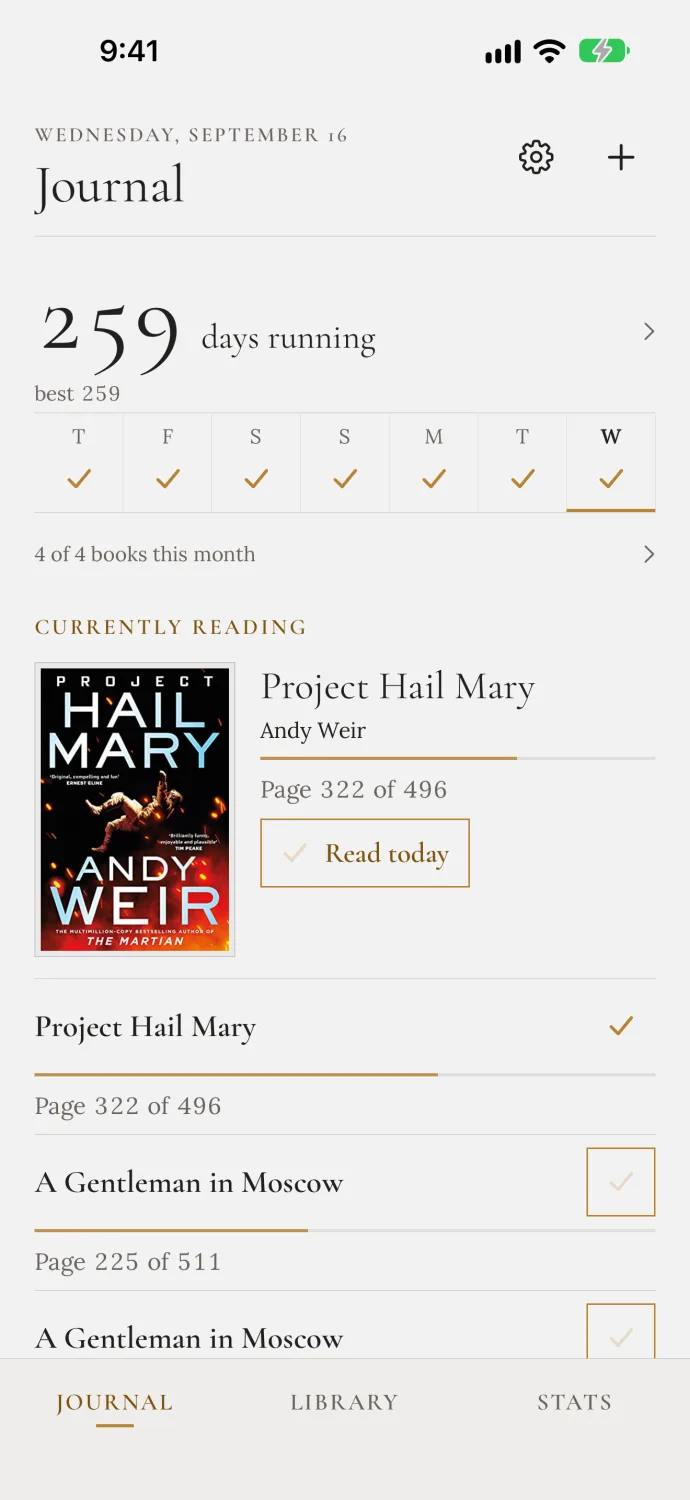
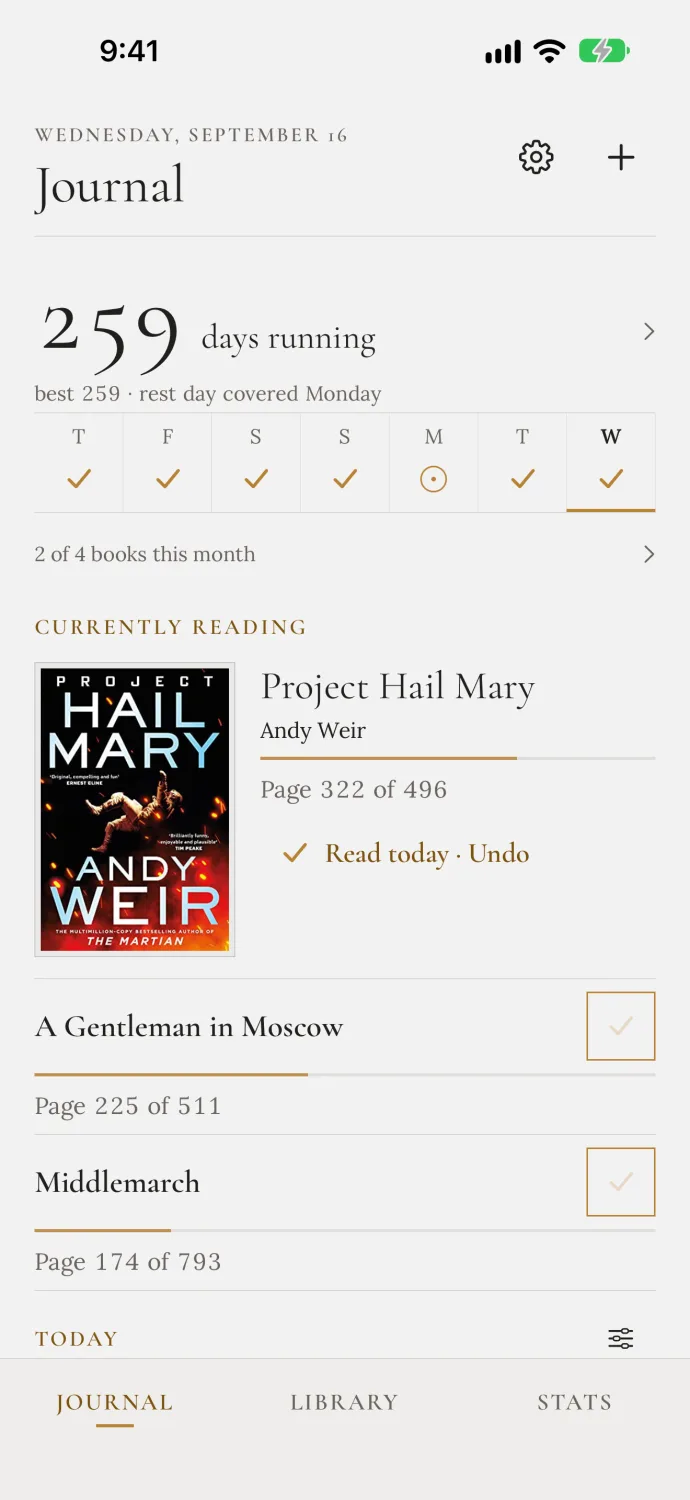
Recapture the screenshots from a clean sample library
The published captures came from a doubled library: the screenshot fixture
seeded twice, so the shelf listed each current book twice and the goals
read 64 of 52 books for the year and 4 of 4 for the month. Fixed in
book-tracker and recaptured, so the images now show what the fixture
describes — three books under way, 2 of 4 books this month — which also
sits better beside "a little reading counts" than the doubled figures did.

The status bar reads 9:41 with a charged battery rather than whatever time
the run started. Alt text follows the new screens, including the book
marked as read today rather than an unmarked Read today button.

diff --git a/site/reading-habit/guide/index.html b/site/reading-habit/guide/index.html
@@ -50,7 +50,7 @@
 <section aria-labelledby="reading-title" id="reading"><span class="chapter-number">05 / Read</span><h2 id="reading-title">Record as much as you need</h2><h3>Check in for today</h3><p>In Journal or a current book’s detail page, choose <strong>Read today</strong>. It records a reading session for that book. It doesn’t finish the book or measure how long you read.</p><p>To undo an eligible check-in, choose the recorded check. Progress updates are kept. Multiple entries or books on the same reading day still count as one day in your daily reading total.</p><h3>Track your position</h3><ol><li>Open the book and expand <strong>Reading details</strong>.</li><li>Turn on <strong>Track progress</strong> for this reading.</li><li>Choose the format and display units. Enter the relevant total length in <strong>Progress settings</strong> and choose <strong>Save lengths</strong> when required.</li><li>Choose the position number, enter your current position, and choose <strong>Log</strong>. You can also drag the progress bar and release to record the position. Depending on the available lengths, you can use percent, pages, chapters, or time.</li></ol><p>Time is a position in an audiobook, not a running session timer. When switching between formats, translated positions are approximate. You can leave progress tracking off and keep using Read today.</p><h3>Finish a book</h3><p>When you finish, choose <strong>Finished</strong> from the book’s status control. If tracking progress reaches the end, follow the finish prompt. The finish belongs to that reading and its finish date. A check-in or an intermediate progress update doesn’t create an extra finish.</p><p>If you stop without finishing, choose <strong>Did Not Finish</strong> from the status options. It doesn’t earn a completed-reading contribution toward your goals.</p></section>
 <section aria-labelledby="history-title" id="history"><span class="chapter-number">06 / Look back and correct</span><h2 id="history-title">Every reading has its own record</h2><p>Open a book and find <strong>Reading activity</strong>. Choose an individual reading to see its days and format activity. A dated event in Journal also opens that book’s reading history.</p><h3>Correct an entry</h3><ol><li>Open the reading you want to correct.</li><li>Use <strong>Correct a reading day</strong> to select the relevant day and format.</li><li>Choose <strong>Mark as read</strong> to add a missed check-in or <strong>Remove check-in</strong> to remove one. Choose a day within the reading, through today.</li></ol><p>Use the individual reading’s format controls to correct its format. To adjust the dates exposed on the book page for its current or most recent reading, open <strong>Reading details → Reading dates</strong> and edit <strong>Started</strong> or <strong>Finished</strong> when available. The individual history view shows earlier readings’ dates but doesn’t offer date pickers for every past reread. Changing dates recalculates the journal and affected statistics; removing a check-in keeps progress entries.</p><h3>Read a book again</h3><p>On a finished book, choose <strong>Read again</strong>. This starts a separate reading and preserves the earlier one. Record the new reading’s days, format, and optional progress as usual.</p><p>Every completed reread contributes separately to monthly and yearly goals. A book finished twice is two completed readings, while the number of distinct books remains one.</p></section>
 <section aria-labelledby="rhythm-title" id="rhythm"><span class="chapter-number">07 / Your daily habit</span><h2 id="rhythm-title">Understand the journal and streaks</h2><p>Journal groups reading sessions, progress updates, and finished readings by date. Logging times appear when stored; older entries that contain only a date don’t show an invented time.</p><p>Use <strong>Display</strong>, the sliders control beside the first date, to show or hide covers in the activity list. Current books keep their covers. Swipe the weekday marks to browse earlier weeks. Choose a week or the streak headline to open daily Stats; choose the monthly summary to open the monthly goal.</p><h3>Three daily measures</h3><ul><li><strong>Current streak:</strong> the ongoing run of reading days, including automatically protected rest days.</li><li><strong>Best streak:</strong> your longest protected run in the record.</li><li><strong>Consecutive days read:</strong> actual consecutive reading days, without rest-day protection.</li></ul><h3>How rest days work</h3><p>Seven consecutive reading days earn one rest day. You can hold at most one. When you miss a day, an available rest day is spent automatically to protect your streak; there is no button to spend it. A protected day doesn’t become an actual day read.</p><div class="note"><p><strong>For example:</strong> after seven consecutive reading days, you have one rest day. If you miss the next day, it protects your streak. Another missed day without a banked rest day breaks the streak.</p></div><h3>The reading day ends at 4 a.m.</h3><p>Reading after midnight but before 4 a.m. can belong to the previous reading day. Today stays open until that boundary, so an unread day doesn’t break the streak prematurely. Finished books use their finish date.</p></section>
-<section aria-labelledby="goals-title" id="goals"><span class="chapter-number">08 / Months and years</span><h2 id="goals-title">Set goals that fit your reading</h2><p>Open <strong>Stats</strong> for daily, monthly, and yearly summaries. Choose <strong>Monthly goal</strong> or <strong>Books this year</strong> to explore the detail and edit the target. You can also change targets in Settings.</p><div class="table-wrap"><table><caption>Goal defaults for a new library</caption><thead><tr><th scope="col">Goal</th><th scope="col">Starting target</th><th scope="col">What contributes</th></tr></thead><tbody><tr><th scope="row">Monthly</th><td>5</td><td>Completed readings at each book’s weight</td></tr><tr><th scope="row">Yearly</th><td>60</td><td>Completed readings at each book’s weight</td></tr></tbody></table></div><p>Existing saved targets are preserved. Monthly and yearly targets are independent; changing one doesn’t set the other. Use <strong>0</strong> to turn either goal off.</p><h3>Give a book a weight</h3><ol><li>Open a book’s detail page.</li><li>Choose <strong>Counts as</strong>.</li><li>Choose <strong>1</strong>, <strong>1.5</strong>, <strong>2</strong>, <strong>3</strong>, or a custom positive number.</li></ol><p>That weight applies to every completed reading of the book, including earlier finishes and rereads. Changing it recalculates those contributions. It doesn’t create additional reading days or additional actual finishes.</p><div class="note"><p><strong>For example:</strong> finishing three readings weighted 1, 1, and 1.5 gives you <strong>3.5</strong> toward your goal and <strong>3</strong> actual finished readings. Finishing that 1.5-weight book again contributes another 1.5.</p></div><h3>Monthly streaks</h3><p>A month becomes successful when its weighted finishes reach its target. A successful current month extends the monthly streak immediately. A current month that hasn’t reached its target doesn’t break your previous streak while the month is still open.</p><p>Once a month ends, missing the target breaks the monthly streak. A completed month with the goal off earns no streak credit and also breaks the run. Stats shows current and best monthly streaks.</p><h3>What changes your history?</h3><p>Monthly target changes apply to the current and future months. Completed months retain their targets. Earlier history uses your initial monthly target as a retrospective baseline.</p><p>Correcting a finish date, correcting a completed reading, or changing a book’s weight recalculates historical results. A past month can therefore become achieved or missed even though its target stays the same. Annual progress uses your yearly target and the same book weights, with actual finished-reading counts alongside it.</p><figure><img alt="Sample iPad Stats: a current and best streak, an earned rest day, a monthly goal reached at 4 of 4, and the months reached this year" class="guide-screenshot" height="1376" loading="lazy" src="../assets/stats-ipad.webp" width="1032"/><figcaption>This sample library uses a custom monthly target of 3.<br/>Weighted totals and actual finishes appear together.</figcaption></figure></section>
+<section aria-labelledby="goals-title" id="goals"><span class="chapter-number">08 / Months and years</span><h2 id="goals-title">Set goals that fit your reading</h2><p>Open <strong>Stats</strong> for daily, monthly, and yearly summaries. Choose <strong>Monthly goal</strong> or <strong>Books this year</strong> to explore the detail and edit the target. You can also change targets in Settings.</p><div class="table-wrap"><table><caption>Goal defaults for a new library</caption><thead><tr><th scope="col">Goal</th><th scope="col">Starting target</th><th scope="col">What contributes</th></tr></thead><tbody><tr><th scope="row">Monthly</th><td>5</td><td>Completed readings at each book’s weight</td></tr><tr><th scope="row">Yearly</th><td>60</td><td>Completed readings at each book’s weight</td></tr></tbody></table></div><p>Existing saved targets are preserved. Monthly and yearly targets are independent; changing one doesn’t set the other. Use <strong>0</strong> to turn either goal off.</p><h3>Give a book a weight</h3><ol><li>Open a book’s detail page.</li><li>Choose <strong>Counts as</strong>.</li><li>Choose <strong>1</strong>, <strong>1.5</strong>, <strong>2</strong>, <strong>3</strong>, or a custom positive number.</li></ol><p>That weight applies to every completed reading of the book, including earlier finishes and rereads. Changing it recalculates those contributions. It doesn’t create additional reading days or additional actual finishes.</p><div class="note"><p><strong>For example:</strong> finishing three readings weighted 1, 1, and 1.5 gives you <strong>3.5</strong> toward your goal and <strong>3</strong> actual finished readings. Finishing that 1.5-weight book again contributes another 1.5.</p></div><h3>Monthly streaks</h3><p>A month becomes successful when its weighted finishes reach its target. A successful current month extends the monthly streak immediately. A current month that hasn’t reached its target doesn’t break your previous streak while the month is still open.</p><p>Once a month ends, missing the target breaks the monthly streak. A completed month with the goal off earns no streak credit and also breaks the run. Stats shows current and best monthly streaks.</p><h3>What changes your history?</h3><p>Monthly target changes apply to the current and future months. Completed months retain their targets. Earlier history uses your initial monthly target as a retrospective baseline.</p><p>Correcting a finish date, correcting a completed reading, or changing a book’s weight recalculates historical results. A past month can therefore become achieved or missed even though its target stays the same. Annual progress uses your yearly target and the same book weights, with actual finished-reading counts alongside it.</p><figure><img alt="Sample iPad Stats: a current and best streak, the week&#8217;s reading days, a monthly goal at 2 of 4, and the months reached this year" class="guide-screenshot" height="1376" loading="lazy" src="../assets/stats-ipad.webp" width="1032"/><figcaption>This sample library uses a custom monthly target of 3.<br/>Weighted totals and actual finishes appear together.</figcaption></figure></section>
 <section aria-labelledby="backup-title" id="backup"><span class="chapter-number">09 / Keep your library</span><h2 id="backup-title">Sync, back up, and bring your books along</h2><h3>iCloud sync</h3><p>Your library is stored on your device and syncs through your private iCloud database when iCloud is available. Use the same Apple Account with iCloud enabled on your devices. There is no separate Reading Habit account.</p><p>Sync needs connectivity and may take time. Keep a JSON backup before moving to a new device.</p><h3>Export a backup</h3><ol><li>Open <strong>Settings → Export Library → As JSON</strong>.</li><li>Save the file in a location you can find again, such as a folder in Files or on your Mac.</li><li>Keep that copy before changing builds or moving devices. Export a fresh copy as your reading record grows.</li></ol><h3>Restore a JSON backup</h3><ol><li>Open <strong>Settings → Restore backup</strong>.</li><li>Select your Reading Habit JSON backup.</li><li>Review the record counts, then choose <strong>Restore backup</strong> to confirm.</li></ol><div class="note"><p><strong>Restore adds missing records and keeps existing ones.</strong> It isn’t a replacement of your current library, and it doesn’t overwrite an existing record to roll back an edit. CSV exports are for spreadsheets; use JSON when you want a Reading Habit backup.</p></div><h3>Import from Goodreads or StoryGraph</h3><ol><li>Obtain your library’s CSV export from Goodreads or StoryGraph and save the file on your device.</li><li>In Reading Habit, choose <strong>Settings → Import from CSV</strong> and select it.</li><li>Review the preview and its reading statuses. Nothing is added until you confirm.</li><li>Choose the import action, wait for the lookup and import to finish, and review the result before choosing <strong>Done</strong>.</li></ol><p>Import accepts the supported Goodreads and StoryGraph formats, not any spreadsheet that happens to end in .csv. The result reports books added, skipped, and finishes without dates. Check imported history before relying on historical goals.</p><h3>Export to a spreadsheet</h3><p>Under <strong>Settings → Export Library</strong>, choose <strong>As CSV</strong> for books. Separate exports are available for readings, reading activity, recommendations, people, series, and series order. Choose the data you need, then save or share the file using the system sheet.</p></section>
 <section aria-labelledby="personalize-title" id="personalize"><span class="chapter-number">10 / Make it yours</span><h2 id="personalize-title">Appearance, widgets, and shortcuts</h2><h3>Change your accent</h3><p>Open <strong>Settings → Appearance → Accent</strong>. Choose Blue, Purple, Orange, Green, or Monochrome. The preview shows the selection. This preference stays on the device; your book covers keep their original colors. The app adapts to the system’s light or dark appearance.</p><h3>Keep help close</h3><p>Open <strong>Settings → How to use Reading Habit</strong> for the offline help guide and its option to replay the welcome. You don’t need this website to read the in-app help.</p><h3>Add a widget</h3><p>On iPhone or iPad, open the Home Screen’s widget gallery and search for Reading Habit. On Mac, use the system’s widget gallery. Choose <strong>Reading Days</strong> for your reading marks or <strong>Add a Book</strong> to open book entry, then place the widget. Available placements depend on the platform.</p><p>Open the app at least once after installation so it can prepare the library. Widgets share its reading record and use the same daily rules. The <strong>Add Book</strong> control is also available in supported system control galleries.</p><h3>Use Shortcuts and Siri</h3><p>In Apple’s Shortcuts app, search for Reading Habit when adding an action. Choose the action and supply the requested book or person. Available actions include <strong>Read Today</strong>, <strong>Read Again</strong>, <strong>Add Book</strong>, <strong>Log Progress</strong>, <strong>Finish Book</strong>, <strong>Open Book</strong>, <strong>Save Recommendation</strong>, and <strong>Recommendations</strong>.</p><p>You can also use the app’s Siri phrases, such as “Mark today as read in Reading Habit” or “Add a book to Reading Habit.” Answer any follow-up question to choose the book. Some actions open the app to finish the task.</p></section>
 <section aria-labelledby="troubleshooting-title" id="troubleshooting"><span class="chapter-number">11 / When something looks unexpected</span><h2 id="troubleshooting-title">Troubleshooting</h2>

diff --git a/site/reading-habit/index.html b/site/reading-habit/index.html
@@ -50,7 +50,7 @@
 <p class="availability"><span aria-hidden="true" class="status-ring"></span>Free on the App Store · iPhone, iPad, and Mac</p>
 </div>
 <figure class="figure">
-<div class="device"><img src="assets/screen-journal.webp" width="690" height="1500" alt="The Journal screen: a running streak, the week's reading days, and the book currently being read with a Read today button."></div>
+<div class="device"><img src="assets/screen-journal.webp" width="690" height="1500" alt="The Journal screen: a running streak, the week's reading days, and the three books currently being read, the first marked as read today."></div>
 <figcaption>Your reading, a day at a time.<br/><em>Journal · sample library</em></figcaption>
 </figure>
 </section>
@@ -112,7 +112,7 @@
 <p style="margin-top:16px"><a class="text-link" href="guide/#rhythm">How the numbers work</a></p>
 </div>
 <figure class="figure">
-<div class="device"><img src="assets/screen-stats.webp" width="690" height="1500" loading="lazy" alt="The Stats screen: current and best streak, an earned rest day, the week's reading days, and a monthly goal with the months reached."></div>
+<div class="device"><img src="assets/screen-stats.webp" width="690" height="1500" loading="lazy" alt="The Stats screen: current and best streak, the week's reading days, and a monthly goal at 2 of 4 with the months already reached this year."></div>
 <figcaption>Daily, monthly and yearly Stats.<br/><em>Sample library with a custom monthly target.</em></figcaption>
 </figure>
 </div>
@@ -129,7 +129,7 @@
 <a class="text-link" href="guide/#history">Explore reading history and rereads</a>
 </div>
 <figure class="figure">
-<div class="device device--sm"><img src="assets/screen-book.webp" width="690" height="1500" loading="lazy" alt="A book's page: cover, reading status, a Read today button, page progress, and the reading activity for this reading."></div>
+<div class="device device--sm"><img src="assets/screen-book.webp" width="690" height="1500" loading="lazy" alt="A book's page: cover, reading status, today's reading marked with an undo link, page progress, and the reading activity for this reading."></div>
 <figcaption><em>Each reading keeps its own record.</em></figcaption>
 </figure>
 </div>

diff --git a/MESSAGING.md b/MESSAGING.md
@@ -132,7 +132,7 @@ Reading Habit 1.0 reached the App Store on September 16, 2026. Website availabil
 - Homepage order: Reading Habit is now card 03 and Where Do We Eat card 04. The share image `assets/social-projects-v4.png` was rebuilt in the new order and replaces v3.
 - Availability was verified against Apple’s public lookup and the store listing before publishing: version 1.0, free, no in-app purchases, iOS/iPadOS 27 and macOS 27 minimums.
 - Card accent: Reading Habit’s eyebrow and footer links use its own `#7d5411` gold (`#e2b15f` in dark mode), so the released card reads as actively as Folio, Where Do We Eat and the two blogs. Who’s First? and Spreadsheet Tools keep inherited ink because their card colors already read as accents.
-- Screenshots: the landing page and guide use real 1.0 captures from the store-library fixture. Its numbers are ambitious (a 259-day streak, 64 of 52 books) and its currently-reading list repeats a title. Raised with Brian on September 16, 2026 and shipped as-is: the images are the real app, and the surrounding copy carries “a little reading counts.” Revisit when the fixture is next tuned for App Store screenshots.
+- Screenshots: the landing page and guide use real 1.0 captures from the store-library fixture. The first capture showed duplicate books and doubled goals; that was a fixture seeding bug, fixed in `book-tracker`, and the published images are recaptured from a clean library. They now show three books under way and 2 of 4 books this month, which matches “a little reading counts” better than the doubled figures did.
 - Card type label: Reading Habit stays “iOS app.” The label is a coarse category alongside Blog and Utility, not a platform list; the landing page’s “For iPhone, iPad, and Mac” carries the detail. Decided September 16, 2026; do not reopen without changing the whole taxonomy.
 
 ## Lankford Legends blog alignment

diff --git a/MIGRATION.md b/MIGRATION.md
@@ -108,6 +108,8 @@ Removed as stale or dead: `journal.png` and `book-detail.png` (old blue UI, refe
 
 Captions keep the "sample library" labeling used for Where Do We Eat. The sample library shows real book covers fetched from Open Library at capture time.
 
+The first capture run produced duplicate books and doubled goal totals: `StoreScreenshotLibrary.seed` inserted unconditionally, and the app's store lives in the App Group container, which `simctl uninstall` does not remove, so a second run seeded onto the first run's data. Fixed in `book-tracker` (commit `090d1f0`): seed only into an empty library, erase the device instead of uninstalling, and reapply the 9:41 status bar override that erasing clears. The published images come from a clean run — three books under way, 2 of 4 books this month, 32 of 52 for the year. Only DEBUG screenshot code changed; the shipping app was never affected.
+
 ## September 9: Work Lunch website refresh
 
 Replaced the Where Do We Eat website imagery with four genuine iPhone 17 Pro Max simulator captures: Decide, choices, Log, and Juniper Kitchen visit details. All use an explicitly enabled, isolated in-memory Work Lunch fixture with fictional restaurants and people. The hero retains Decide; a responsive Choices/Log gallery precedes the memory section, which now shows visit details. Published imagery is labeled sample data.
